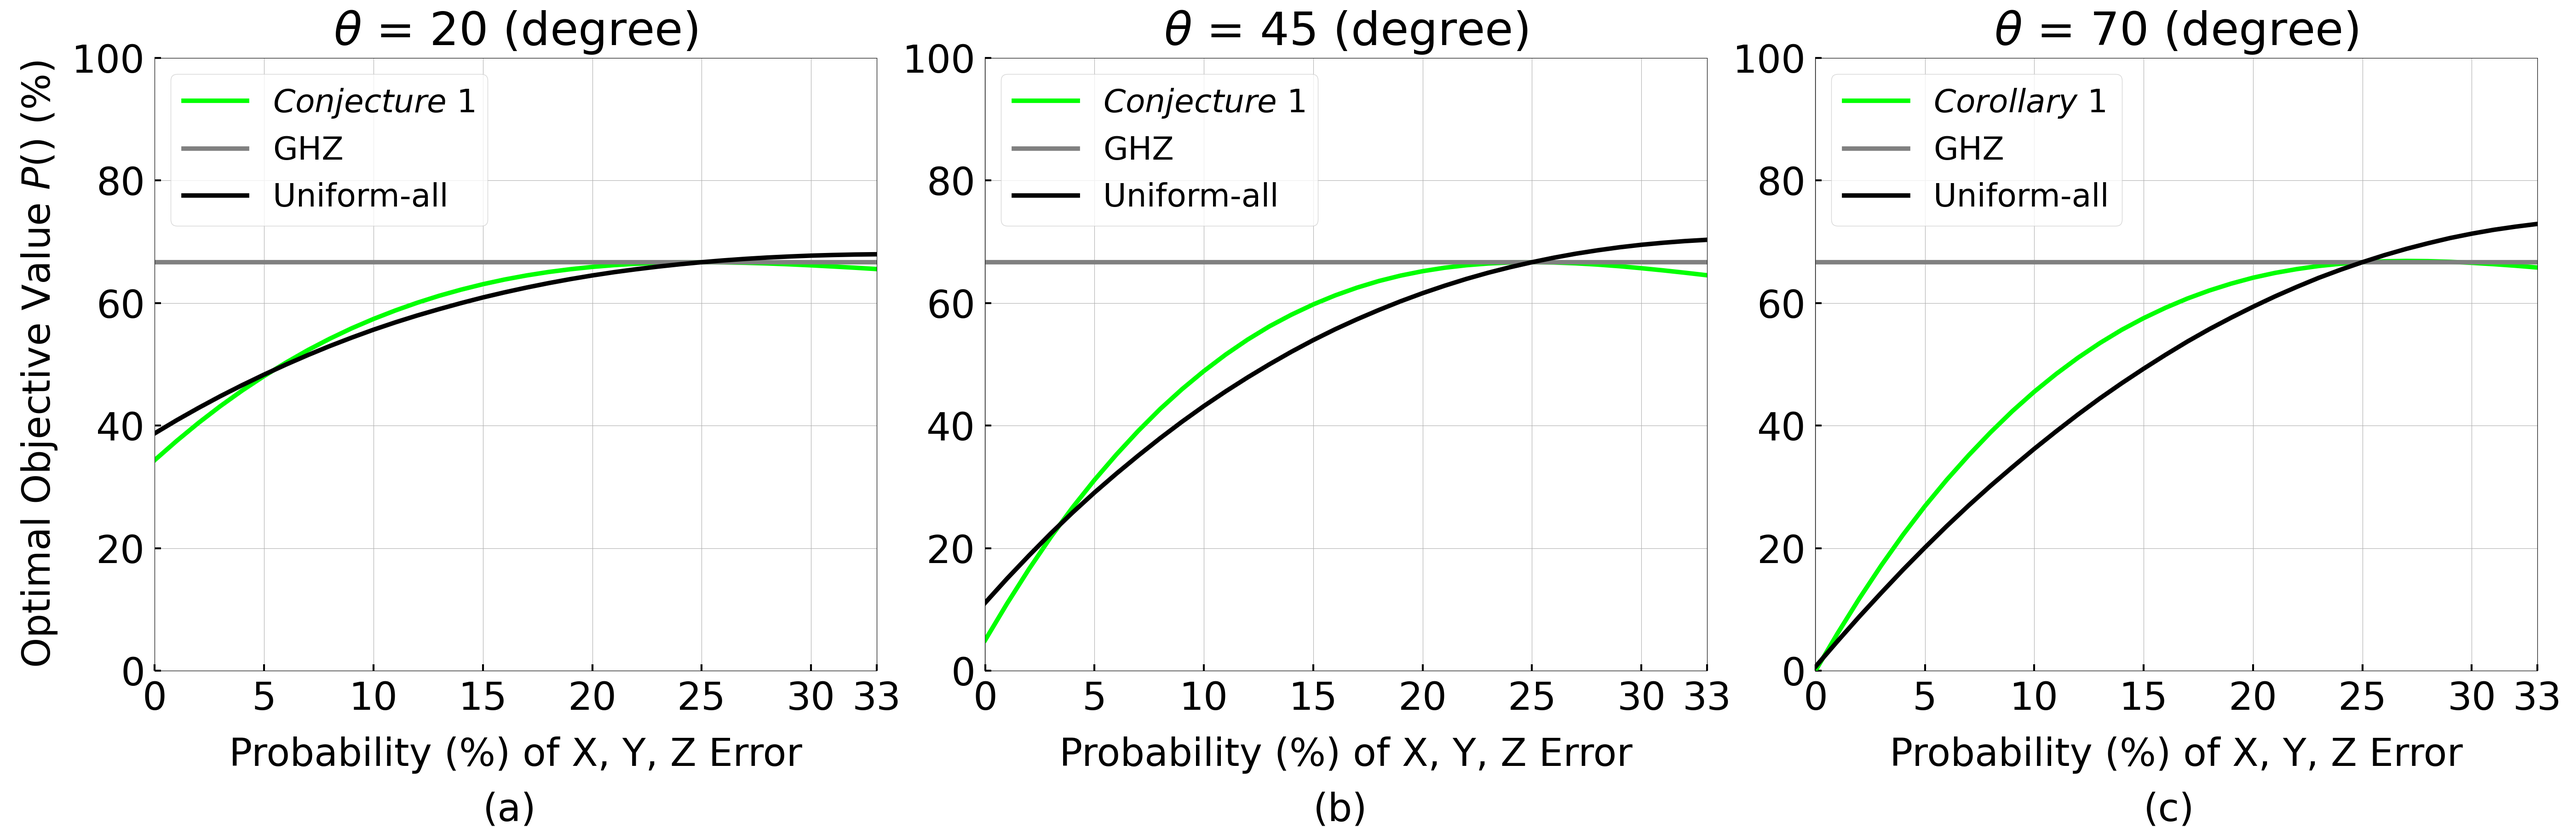
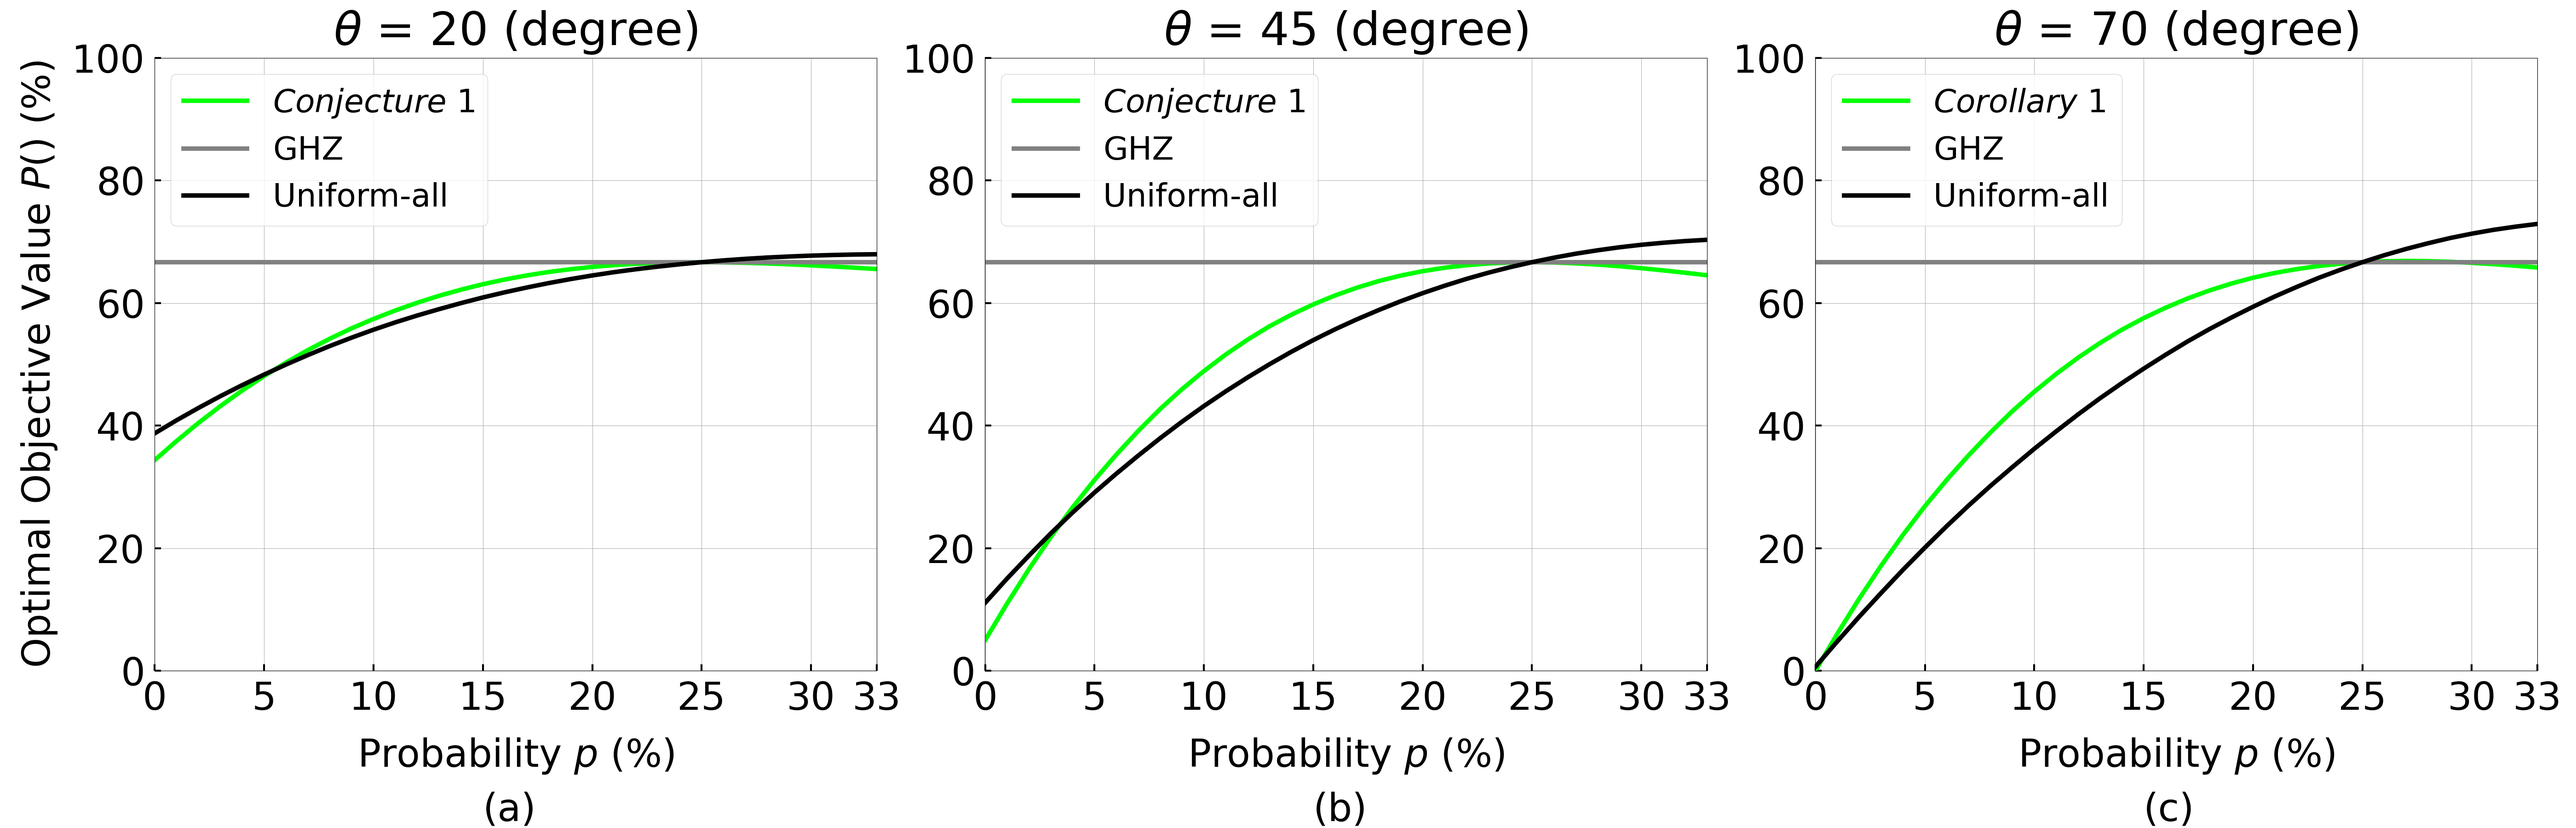
update plots

Changed region(s): [[0.7188, 0.8711, 0.9688, 0.9333], [0.0938, 0.8711, 0.3125, 0.9333], [0.4062, 0.8711, 0.625, 0.9333]]

diff --git a/plot.py b/plot.py
@@ -884,7 +884,7 @@ class Plot:
         xticks = [0, 5, 10, 15, 20, 25, 30, 33]
         ax0.set_xticks(xticks)
         ax0.set_xticklabels([f'{x}' for x in xticks])
-        ax0.set_xlabel('Probability (%) of X, Y, Z Error', labelpad=30)
+        ax0.set_xlabel('Probability $p$ (%)', labelpad=30)
         ax0.set_ylabel('Optimal Objective Value $P()$ (%)', fontsize=60, labelpad=20)
         ax0.legend(fontsize=50, loc='upper left')
         ax0.text(15, -24.5, '(a)')
@@ -897,7 +897,7 @@ class Plot:
         ax1.tick_params(axis='y', direction='in', length=10, width=3, pad=15)
         ax1.set_xticks(xticks)
         ax1.set_xticklabels([f'{x}' for x in xticks])
-        ax1.set_xlabel('Probability (%) of X, Y, Z Error', labelpad=30)
+        ax1.set_xlabel('Probability $p$ (%)', labelpad=30)
         ax1.legend(fontsize=50, loc='upper left')
         ax1.text(15, -24.5, '(b)')
         # ax2
@@ -909,7 +909,7 @@ class Plot:
         ax2.tick_params(axis='y', direction='in', length=10, width=3, pad=15)
         ax2.set_xticks(xticks)
         ax2.set_xticklabels([f'{x}' for x in xticks])
-        ax2.set_xlabel('Probability (%) of X, Y, Z Error', labelpad=30)
+        ax2.set_xlabel('Probability $p$ (%)', labelpad=30)
         ax2.legend(fontsize=50, loc='upper left')
         ax2.text(15, -24.5, '(c)')
         fig.savefig(filename)
@@ -1003,10 +1003,10 @@ class Plot:
         table1 = defaultdict(list)  # phase shift noise
         for myinput, output_by_methods in data:
             for method, output in output_by_methods.items():
-                if myinput.noise_type == 'depolar' and myinput.unitary_theta == theta and method in methods:
-                    table0[method].append((round(myinput.noise_param, 2), output.error))
                 if myinput.noise_type == 'phaseshift' and myinput.unitary_theta == theta and method in methods:
-                    table1[method].append((round(myinput.noise_param, 4), output.error))
+                    table0[method].append((round(myinput.noise_param, 4), output.error))
+                if myinput.noise_type == 'depolar' and myinput.unitary_theta == theta and method in methods:
+                    table1[method].append((round(myinput.noise_param, 2), output.error))
         Y0 = defaultdict(list)
         Y1 = defaultdict(list)
         for method in methods:
@@ -1025,31 +1025,31 @@ class Plot:
             ax1.plot(X1, Y1[method], label=Plot.METHOD[method], color=Plot.COLOR[method])
         # ax0
         ax0.grid()
-        ax0.set_xlim([-0.01, 33])
+        ax0.set_xlim([-0.01, 180])
         ax0.set_ylim([0, 100])
         ax0.set_title('$\\theta$ = 45 degree', pad=20)
         ax0.tick_params(axis='x', direction='in', length=10, width=3, pad=15)
         ax0.tick_params(axis='y', direction='in', length=10, width=3, pad=15)
-        xticks = [0, 5, 10, 15, 20, 25, 30, 33]
+        xticks = [0, 30, 60, 90, 120, 150, 180]
         ax0.set_xticks(xticks)
         ax0.set_xticklabels([f'{x}' for x in xticks])
-        ax0.set_xlabel('Probability (%) of X, Y, Z Error', labelpad=30)
-        ax0.set_ylabel('Optimal Objective Value $P()$ (%)', fontsize=60, labelpad=20)
+        ax0.set_xlabel('Phase Shift $\\epsilon$ (degree)', labelpad=30)
         ax0.legend(fontsize=50)
-        ax0.text(15, -24, '(a)')
+        ax0.set_ylabel('Optimal Objective Value $P()$ (%)', fontsize=60, labelpad=20)
+        ax0.text(85, -24, '(a)')
         # ax1
         ax1.grid()
-        ax1.set_xlim([-0.01, 180])
+        ax1.set_xlim([-0.01, 33])
         ax1.set_ylim([0, 100])
         ax1.set_title('$\\theta$ = 45 degree', pad=20)
         ax1.tick_params(axis='x', direction='in', length=10, width=3, pad=15)
         ax1.tick_params(axis='y', direction='in', length=10, width=3, pad=15)
-        xticks = [0, 30, 60, 90, 120, 150, 180]
+        xticks = [0, 5, 10, 15, 20, 25, 30, 33]        
         ax1.set_xticks(xticks)
         ax1.set_xticklabels([f'{x}' for x in xticks])
-        ax1.set_xlabel('Phase Shift $\\epsilon$ (degree)', labelpad=30)
+        ax1.set_xlabel('Probability $p$ (%)', labelpad=30)
         ax1.legend(fontsize=50)
-        ax1.text(85, -24, '(b)')
+        ax1.text(15, -24, '(b)')
         fig.savefig(filename)
 
 
@@ -1230,8 +1230,8 @@ if __name__ == '__main__':
     # conjecture()
     # symmetry()
 
-    noise_affect()
-    # povm_noise()
+    # noise_affect()
+    povm_noise()
 
 
     # pra()
